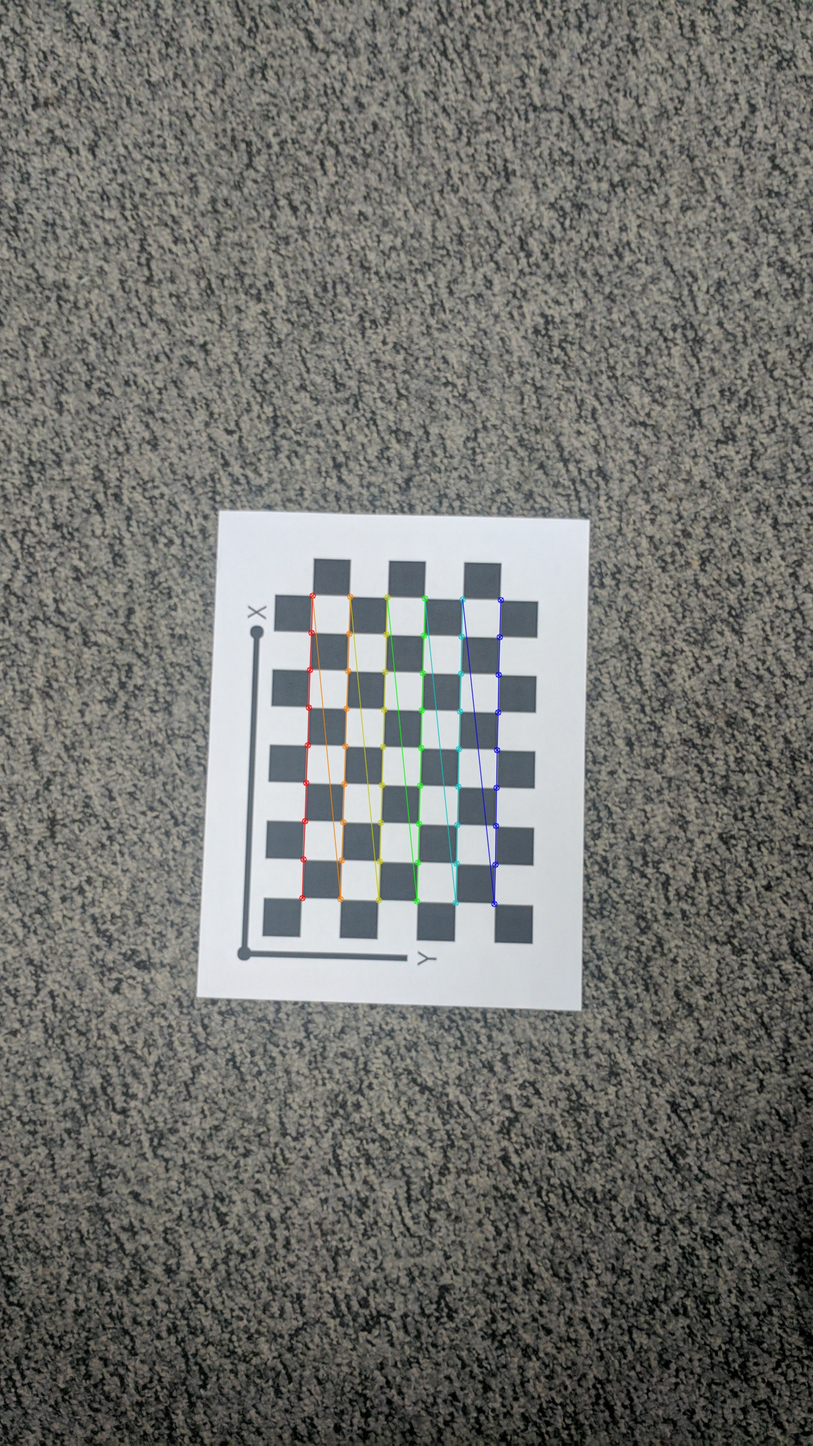
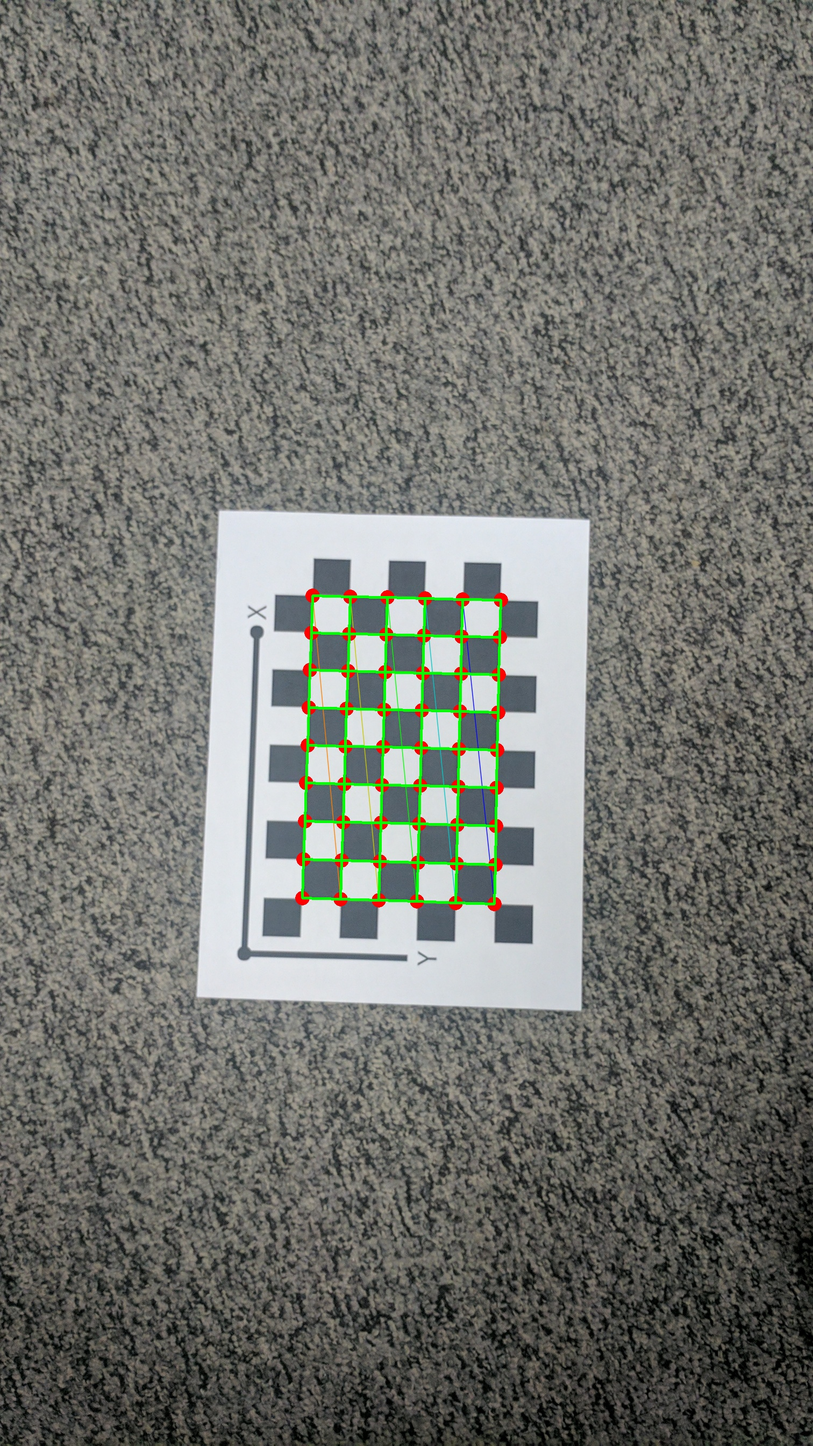
added thicker lines for checkerboard corners

Changed region(s): [[0.3419, 0.4062, 0.6217, 0.625]]

diff --git a/detect_checkerboard_corners.py b/detect_checkerboard_corners.py
@@ -1,30 +1,71 @@
 import cv2
+import numpy as np
 
-def getCheckerBoardCorners(image_path, checkerboard_size):
-  """
-  Detects checkerboard corners in an image.
+def getCheckerBoardCorners(
+    image_path,
+    checkerboard_size,
+    circle_radius=8,
+    circle_color=(0, 0, 255),
+    circle_thickness=10,   # -1 means filled
+    draw_lines=True,
+    line_color=(0, 255, 0),
+    line_thickness=4
+):
+    """
+    Detects checkerboard corners and makes them more pronounced on the image.
 
-  Args:
-      image_path (str): Path to the image.
-      checkerboard_size (tuple): (columns, rows) number of inner corners (e.g., (9, 6))
-      display (bool): If True, display the image with drawn corners.
-      save_path (str or None): If given, saves the result image to this path.
+    Args:
+        image_path (str): Path to the image.
+        checkerboard_size (tuple): (columns, rows) number of inner corners (e.g., (9, 6))
+        circle_radius (int): Radius of the drawn circles.
+        circle_color (tuple): Color for the circles (B, G, R).
+        circle_thickness (int): Thickness of the circle outline. Use -1 for filled.
+        draw_lines (bool): Whether to draw lines connecting the corners.
+        line_color (tuple): Color for the connecting lines (B, G, R).
+        line_thickness (int): Thickness of the connecting lines.
 
-  Returns:
-      corners (np.ndarray or None): Detected corners, shape (N, 2), or None if not found.
-  """
-  img = cv2.imread(image_path)
-  
-  if img is None:
-    raise FileNotFoundError(f"Image not found: {image_path}")
+    Returns:
+        img (np.ndarray or None): Image with pronounced corners drawn.
+        corners (np.ndarray or None): Detected corners, shape (N, 2), or None if not found.
+    """
+    img = cv2.imread(image_path)
+    if img is None:
+        raise FileNotFoundError(f"Image not found: {image_path}")
 
-  gray = cv2.cvtColor(img, cv2.COLOR_BGR2GRAY)
-  ret, corners = cv2.findChessboardCorners(gray, checkerboard_size, None)
+    gray = cv2.cvtColor(img, cv2.COLOR_BGR2GRAY)
+    ret, corners = cv2.findChessboardCorners(gray, checkerboard_size, None)
 
-  if ret:
-    criteria = (cv2.TERM_CRITERIA_EPS + cv2.TERM_CRITERIA_MAX_ITER, 30, 0.001)
-    corners = cv2.cornerSubPix(gray, corners, (11,11), (-1,-1), criteria)
-    cv2.drawChessboardCorners(img, checkerboard_size, corners, ret)
-    return img, corners.squeeze()
-  else:
-    return None
+    if ret:
+        criteria = (cv2.TERM_CRITERIA_EPS + cv2.TERM_CRITERIA_MAX_ITER, 30, 0.001)
+        corners = cv2.cornerSubPix(gray, corners, (11, 11), (-1, -1), criteria)
+        cv2.drawChessboardCorners(img, checkerboard_size, corners, ret)
+        corners2d = corners.squeeze()
+
+        # Draw extra circles to highlight corners
+        for pt in corners2d:
+            center = tuple(np.round(pt).astype(int))
+            cv2.circle(img, center, circle_radius, circle_color, circle_thickness)
+
+        # Draw thick lines connecting the corners (row-wise and column-wise)
+        if draw_lines:
+            cols, rows = checkerboard_size
+            # Draw horizontal lines
+            for r in range(rows):
+                for c in range(cols - 1):
+                    idx1 = r * cols + c
+                    idx2 = r * cols + c + 1
+                    pt1 = tuple(np.round(corners2d[idx1]).astype(int))
+                    pt2 = tuple(np.round(corners2d[idx2]).astype(int))
+                    cv2.line(img, pt1, pt2, line_color, line_thickness)
+            # Draw vertical lines
+            for c in range(cols):
+                for r in range(rows - 1):
+                    idx1 = r * cols + c
+                    idx2 = (r + 1) * cols + c
+                    pt1 = tuple(np.round(corners2d[idx1]).astype(int))
+                    pt2 = tuple(np.round(corners2d[idx2]).astype(int))
+                    cv2.line(img, pt1, pt2, line_color, line_thickness)
+
+        return img, corners2d
+    else:
+        return None, None
